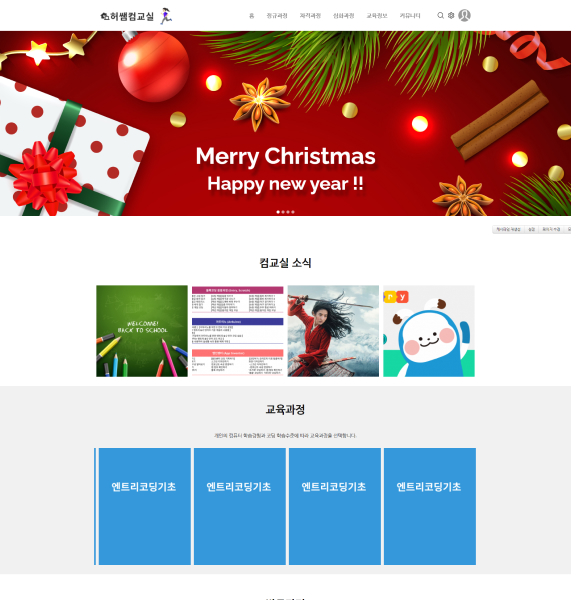
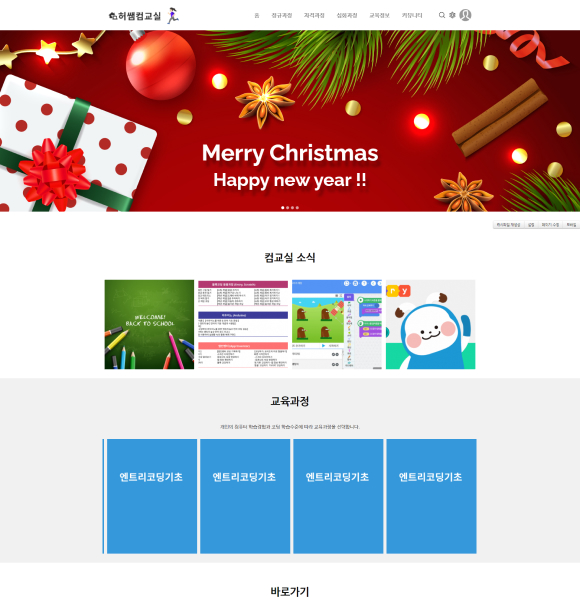
ver8

Changed region(s): [[0.0, 0.0, 1.0, 0.39], [0.1552, 0.39, 0.8379, 1.0], [0.2793, 0.18, 0.3414, 0.21]]

diff --git a/coding.html b/coding.html
@@ -35,7 +35,7 @@
       <li><a data-menuanchor="page2" href="#page2">Mars project</a></li>
       <li><a data-menuanchor="page3" href="#page3">Trovol</a></li>
       <li><a data-menuanchor="page4" href="#page4">Movie&music</a></li>
-      <li><a data-menuanchor="page5" href="#page5">Extra</a></li>
+      <li><a data-menuanchor="page5" href="#page5">허쌤컴교실</a></li>
     </ul>
 
     <!-- 검색창 -->
@@ -146,13 +146,12 @@
             <img src="./images/Mask_herssam.jpg" alt="웹사이트대표 이미지">
           </div>
             <div class="info">
-              <h3>extra 사이트 </h3>
-              <h2>Extra 홈페이지</h2>
+              <h3>커뮤니티 사이트 </h3>
+              <h2>허쌤컴교실 홈페이지</h2>
               <div class="line"></div>
-              <p>코딩언어 및 CMS편집기
-                Html / Css / JavaScript / Jqurey / XpressEngine </p>
-              <p>사이트 설명
-                반응형 제작... 등 사이트 관련 설명넣기</p>
+              <p>코딩언어 Html / Css / JavaScript / Jqurey <br/> CMS편집기 XpressEngine  </p>
+              <p>반응형 웹코딩 <br/>
+                slick slide banner / jquery accordion box / javascript event countdown </p>
                 <div class="code_btns">
                   <a href="http://herssam2020.dothome.co.kr/"><button>사이트 바로가기</button></a>
                   <a href="#"><button>코드보기</button></a>
